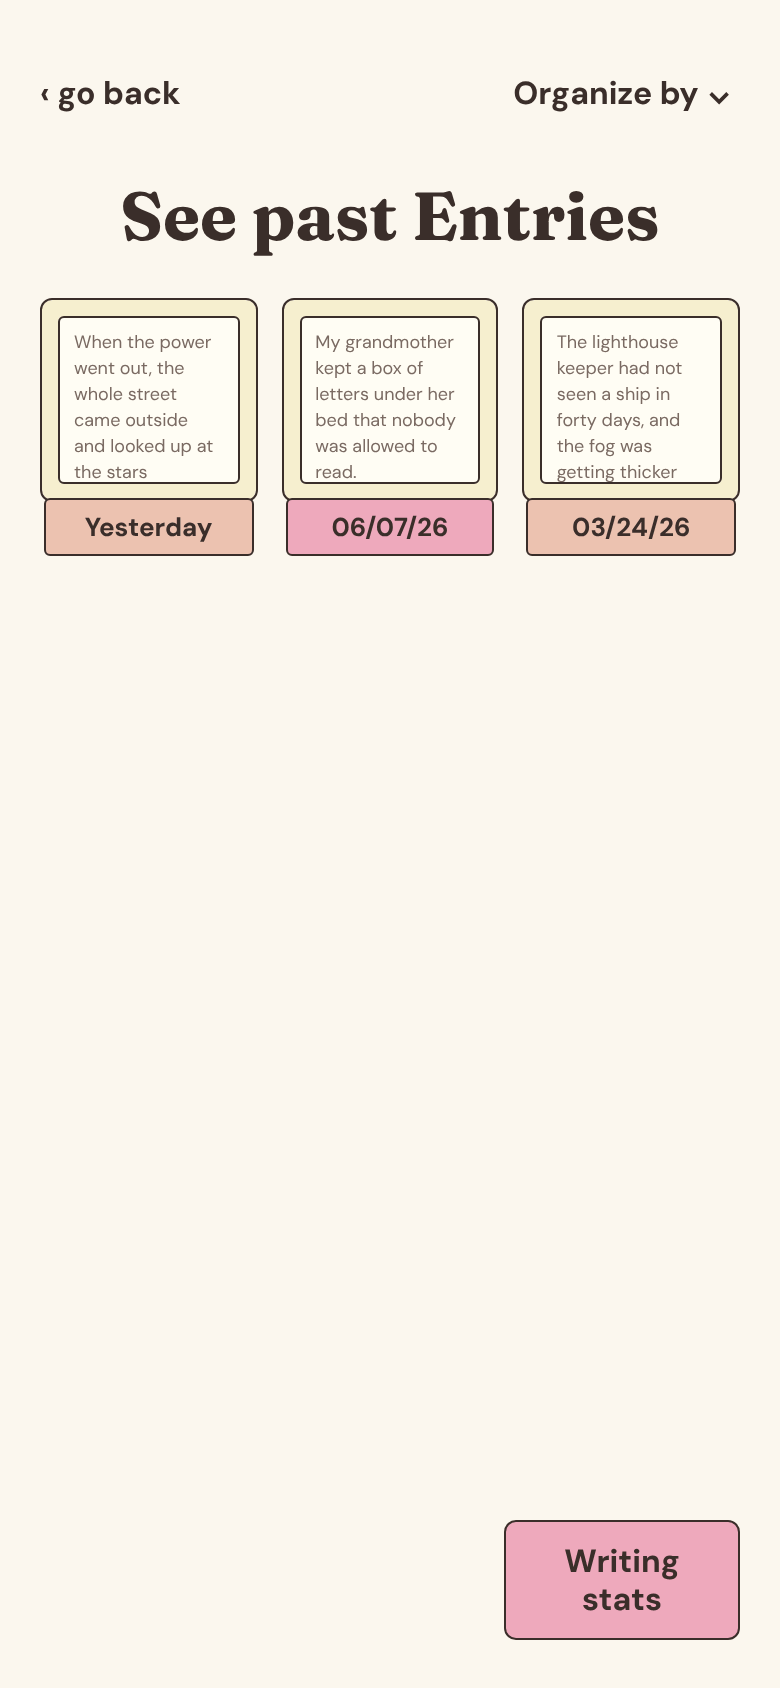
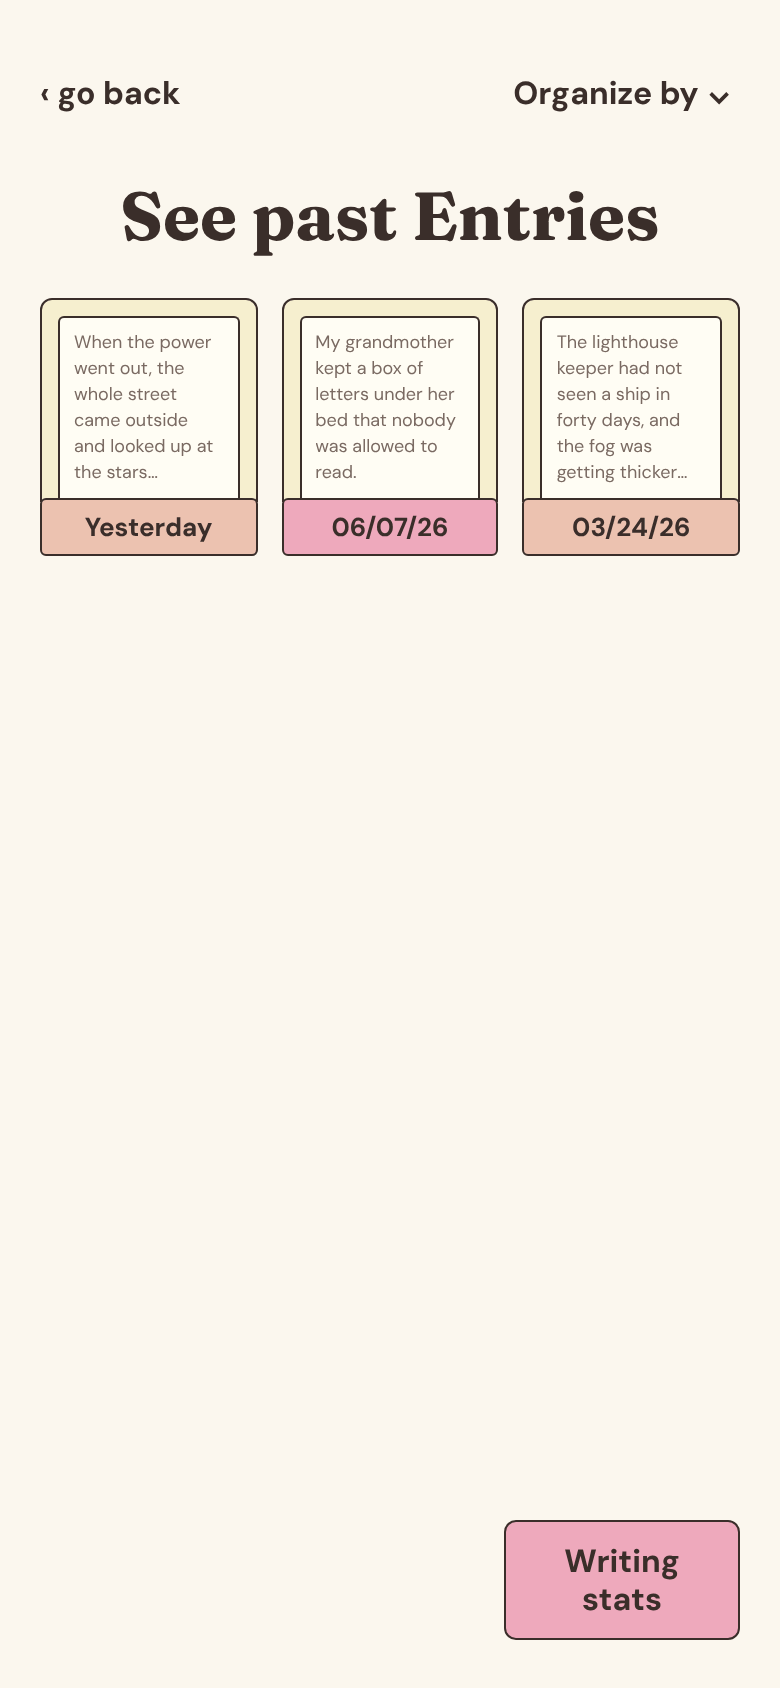
Add a username to sign-up, sign in with username and password, and join the past entry pages to their date tags

Changed region(s): [[0.0308, 0.2773, 0.9538, 0.3389]]

diff --git a/app/app.js b/app/app.js
@@ -187,7 +187,8 @@
       'auth/wrong-password': 'Wrong password for that email.',
       'auth/popup-closed-by-user': 'Google sign-in was closed before finishing.',
       'auth/too-many-requests': 'Too many tries. Wait a minute and try again.',
-      'auth/network-request-failed': 'No internet connection.'
+      'auth/network-request-failed': 'No internet connection.',
+      'app/username-taken': 'That username is taken. Try another one.'
     };
     return msgs[e && e.code] || 'Something went wrong. Try again.';
   }
@@ -200,19 +201,33 @@
     showSignupError('');
     if (cloudReady()) Cloud.signInWithGoogle().catch((e) => showSignupError(authMessage(e)));
   });
-  // E-mail: signs in if the account exists, or creates it if it doesn't
+  // E-mail button:
+  //   username + password (email left empty)  -> signs in with your username
+  //   username + email + password             -> signs in if the account exists, or makes a new one
+  const USERNAME_OK = /^[A-Za-z0-9_]{3,20}$/;
   $('#su-email-btn').addEventListener('click', async () => {
     showSignupError('');
-    const email = $('#su-email').value.trim(), pass = $('#su-pass').value;
-    if (!email) { showSignupError('Type your email first.'); return; }
+    const name = $('#su-user').value.trim(), email = $('#su-email').value.trim(), pass = $('#su-pass').value;
+    if (!name && !email) { showSignupError('Type your username first.'); return; }
     if (!pass) { showSignupError('Type a password first.'); return; }
     if (!cloudReady()) return;
+    if (!email) {
+      try {
+        const found = await Cloud.emailForUsername(name);
+        if (!found) { showSignupError("There's no account with that username."); return; }
+        await Cloud.signInWithEmail(found, pass);
+      } catch (e) {
+        showSignupError(['auth/invalid-credential', 'auth/wrong-password', 'auth/invalid-login-credentials'].includes(e.code) ? 'Wrong password for that username.' : authMessage(e));
+      }
+      return;
+    }
     try {
       await Cloud.signInWithEmail(email, pass);
     } catch (e) {
-      if (['auth/invalid-credential', 'auth/user-not-found', 'auth/invalid-login-credentials'].includes(e.code)) {
-        try { await Cloud.createAccount(email, pass); } catch (e2) { showSignupError(authMessage(e2)); }
-      } else showSignupError(authMessage(e));
+      if (!['auth/invalid-credential', 'auth/user-not-found', 'auth/invalid-login-credentials'].includes(e.code)) { showSignupError(authMessage(e)); return; }
+      if (!name) { showSignupError('Pick a username first.'); return; }
+      if (!USERNAME_OK.test(name)) { showSignupError('Usernames are 3 to 20 letters, numbers or _.'); return; }
+      try { await Cloud.createAccountWithUsername(name, email, pass); } catch (e2) { showSignupError(authMessage(e2)); }
     }
   });
 
@@ -540,7 +555,7 @@
     if (sortBy === 'words') list.sort((a, b) => b.e.wordCount - a.e.wordCount);
     $$('#sort-menu button').forEach((b) => b.setAttribute('aria-checked', String(b.dataset.sort === sortBy)));
     $('#entry-grid').innerHTML = list.map(({ e }) =>
-      '<div class="entry-card"><span class="page-box"><span class="preview">' + escapeHtml(e.text.slice(0, 160)) +
+      '<div class="entry-card"><span class="page-box"><span class="preview"><span class="preview-text">' + escapeHtml(e.text.slice(0, 160)) + '</span>' +
       '</span></span><span class="date">' + escapeHtml(dateLabel(e.date)) + '</span></div>').join('');
   }
   $('#sort-btn').addEventListener('click', () => {

diff --git a/app/styles.css b/app/styles.css
@@ -199,9 +199,10 @@ a.tile { text-decoration: none; }
 .entry-grid { display: grid; grid-template-columns: repeat(3, minmax(0, 1fr)); gap: 12px; }
 /* Like Allison's drawing: a lined page inside a pale yellow box, with the date on a colored tag underneath */
 .entry-card { display: flex; flex-direction: column; text-decoration: none; }
-.entry-card .page-box { background: #f6efcf; border: 1.5px solid var(--ink); border-radius: 6px; padding: 8px; }
-.entry-card .preview { display: block; height: 84px; padding: 6px 7px; background: #fffdf4; border: 1.5px solid var(--ink); border-radius: 3px; font-size: 9px; line-height: 1.45; color: var(--muted); overflow: hidden; }
-.entry-card .date { margin: -2px 2px 0; padding: 5px 2px; border: 1.5px solid var(--ink); border-radius: 3px; font-size: 13px; font-weight: 700; text-align: center; }
+.entry-card .page-box { background: #f6efcf; border: 1.5px solid var(--ink); border-radius: 6px 6px 0 0; padding: 8px 8px 0; }
+.entry-card .preview { display: block; height: 92px; padding: 6px 7px; box-sizing: border-box; background: #fffdf4; border: 1.5px solid var(--ink); border-bottom: none; border-radius: 3px 3px 0 0; font-size: 9px; line-height: 1.45; color: var(--muted); overflow: hidden; }
+.entry-card .preview-text { display: -webkit-box; -webkit-box-orient: vertical; -webkit-line-clamp: 6; overflow: hidden; }
+.entry-card .date { margin: -1.5px 0 0; padding: 5px 2px; border: 1.5px solid var(--ink); border-radius: 3px; font-size: 13px; font-weight: 700; text-align: center; }
 .entry-card:nth-child(odd) .date { background: var(--orange); }
 .entry-card:nth-child(even) .date { background: var(--pink); }
 .stats-btn { width: 118px; min-height: 0; padding: 10px 8px; border: 1.5px solid var(--ink); border-radius: 6px; line-height: 1.2; text-align: center; }

diff --git a/index.html b/index.html
@@ -31,7 +31,7 @@
   <h2>Getting started</h2>
   <div class="row">
     <figure><figcaption><b>1. Welcome</b><span>The first screen a new user sees.</span></figcaption><a href="images/welcome.png"><img src="images/welcome.png" alt="Welcome screen" width="300" loading="lazy"></a></figure>
-    <figure><figcaption><b>2. Sign-up</b><span>Google, or email and password.</span></figcaption><a href="images/sign-up.png"><img src="images/sign-up.png" alt="Sign-up screen" width="300" loading="lazy"></a></figure>
+    <figure><figcaption><b>2. Sign-up</b><span>Username, email and password, or Google. Later you can sign in with just your username and password.</span></figcaption><a href="images/sign-up.png"><img src="images/sign-up.png" alt="Sign-up screen" width="300" loading="lazy"></a></figure>
     <figure><figcaption><b>3. Onboarding 1</b><span>What do you like to write about?</span></figcaption><a href="images/onboarding-1-write-about.png"><img src="images/onboarding-1-write-about.png" alt="Onboarding 1 screen" width="300" loading="lazy"></a></figure>
     <figure><figcaption><b>4. Onboarding 2</b><span>Topics (pick more than one).</span></figcaption><a href="images/onboarding-2-topics.png"><img src="images/onboarding-2-topics.png" alt="Onboarding 2 screen" width="300" loading="lazy"></a></figure>
     <figure><figcaption><b>5. Onboarding 3</b><span>How we can help you improve.</span></figcaption><a href="images/onboarding-3-writing-help.png"><img src="images/onboarding-3-writing-help.png" alt="Onboarding 3 screen" width="300" loading="lazy"></a></figure>

diff --git a/app/cloud.js b/app/cloud.js
@@ -24,6 +24,8 @@
   let auth = null, db = null, user = null, ready = false;
   const listeners = [];
 
+  const usernameKey = (name) => name.trim().toLowerCase();   // "Allison" and "allison" are the same username
+
   function loadScript(src) {
     return new Promise((ok, fail) => { const s = document.createElement('script'); s.src = src; s.onload = ok; s.onerror = fail; document.head.appendChild(s); });
   }
@@ -91,6 +93,18 @@
     },
     signInWithEmail(email, password) { return auth.signInWithEmailAndPassword(email, password); },
     createAccount(email, password) { return auth.createUserWithEmailAndPassword(email, password); },
+    // Usernames: each one points to the account's email, so you can sign in with username and password
+    async emailForUsername(name) {
+      const snap = await db.collection('usernames').doc(usernameKey(name)).get();
+      return snap.exists ? snap.data().email : null;
+    },
+    async createAccountWithUsername(name, email, password) {
+      if (await this.emailForUsername(name)) { const e = new Error('taken'); e.code = 'app/username-taken'; throw e; }
+      const cred = await auth.createUserWithEmailAndPassword(email, password);
+      await db.collection('usernames').doc(usernameKey(name)).set({ uid: cred.user.uid, email: cred.user.email });
+      await db.collection('users').doc(cred.user.uid).set({ username: name.trim() }, { merge: true });
+      return cred;
+    },
     resetPassword(email) { return auth.sendPasswordResetEmail(email); },
     signOut() { return auth.signOut(); },
     save: push

diff --git a/app/index.html b/app/index.html
@@ -228,6 +228,8 @@
     <a href="#welcome" class="back">‹ back</a>
     <h1 class="title center">Sign-up</h1>
     <div class="signup-box">
+      <label for="su-user" class="sr-only">Username</label>
+      <input id="su-user" class="line-input" type="text" placeholder="Username" autocomplete="username" autocapitalize="none" spellcheck="false">
       <label for="su-email" class="sr-only">Email</label>
       <input id="su-email" class="line-input" type="email" placeholder="Email" autocomplete="email">
       <label for="su-pass" class="sr-only">Password</label>

diff --git a/app/sw.js b/app/sw.js
@@ -1,6 +1,6 @@
 // Lets the app open even without internet, after the first visit.
 // When you change any app file, bump the version number so phones get the update.
-const CACHE = 'wpa-v26';
+const CACHE = 'wpa-v27';
 const FILES = ['./', 'index.html', 'styles.css', 'data.js', 'app.js', 'cloud.js', 'manifest.webmanifest',
   'icons/icon-192.png', 'icons/icon-512.png', 'icons/apple-touch-icon.png'];
 
